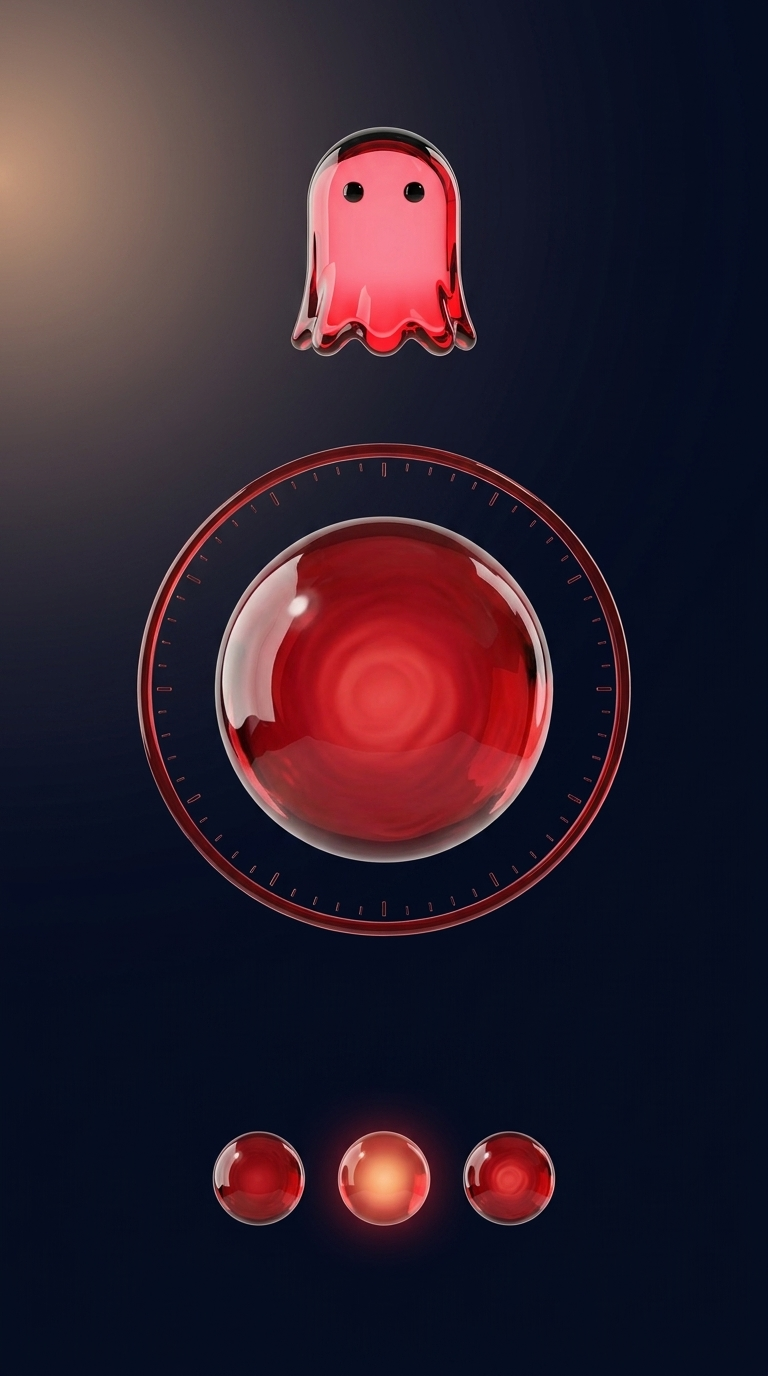
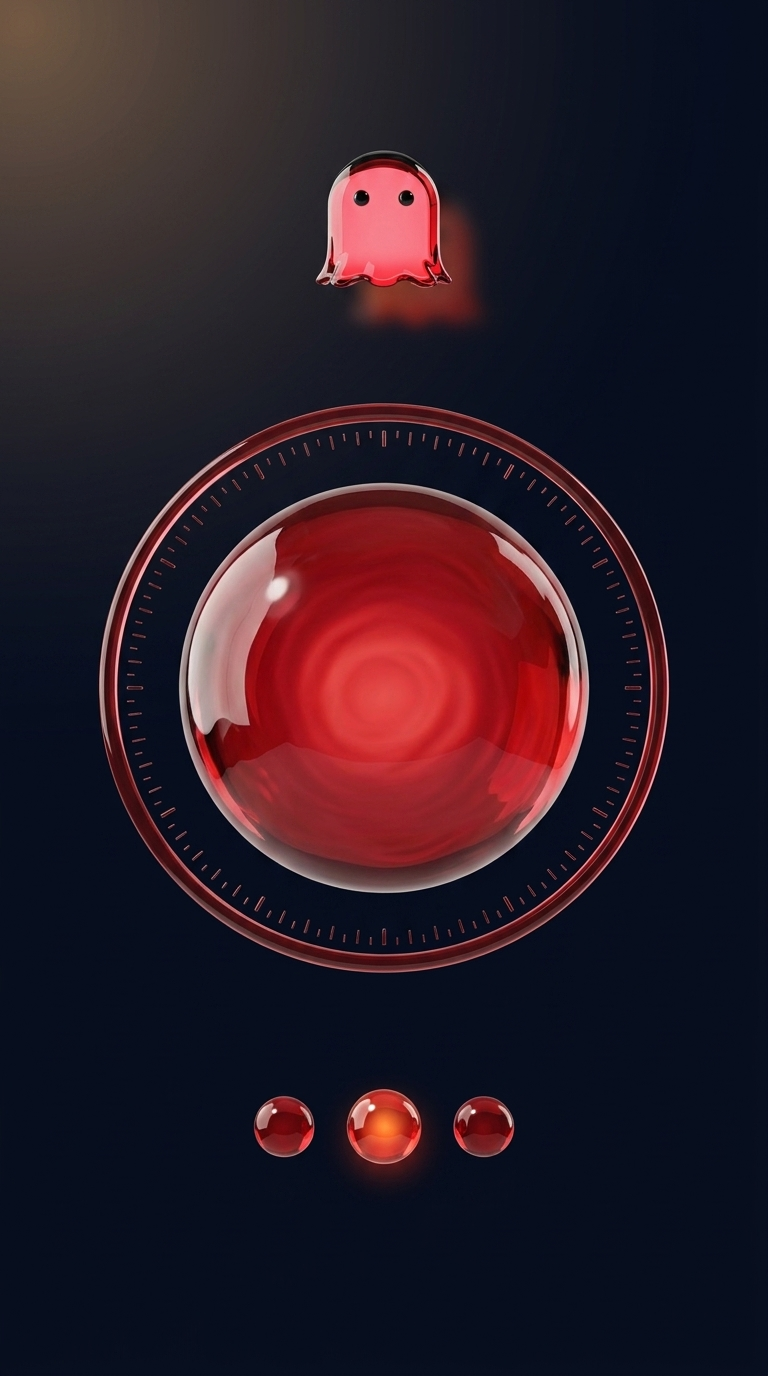
fix: 재질 대조 — 마스코트 3컷을 정본 비율로 재생성 (유호 지적 08-14)
- 🔴 결함: 첫 판이 `마스코트_렌더/본체.png`(08-13 · 비율 확정 «전»)를 참조로 써서 긴 몸통이 나갔다.
  유호님이 잡음 — 「저거보다 짧게 다시 만들지 않았었나?」
- 원인: 세션 시작 훅이 보드 줄(`170f1ff1` 마스코트 정본 통일 — 비율·밴드)을 보여줬는데
  그 줄이 선언한 파일을 직접 열지 않고 옛 렌더를 인용했다(CLAUDE.md 「현재 상태는 현재를 읽어 판정한다」 위반).
- 처방: `tools/마스코트정본.py --컷 본체`(밴드 0 = 유호 픽 대기 축은 안 건드림)로 정본을 굽고
  펠트_본체·글래시_앱화면·펠트_앱화면 3컷 재생성. 실측 1370x1266 · 세로/가로 0.924(확정 「강 0.925」).
- 회귀: `tools/재질굽기.js` 참조 상수에 «정본을 쓴다·옛 렌더를 쓰면 긴 몸통이 나온다» 주석 못박음
  + 런타임참조 폴백(디스크 앞선 산출물)과 참조 부재 시 즉시 실패 가드 추가.
- 글래시 본체는 정본의 **얼린 사본**을 판정 재료 폴더에 둔다 — 대조는 입력을 고정해야 성립하고,
  정본 폴더는 남의 트랙(`170f1ff1`)이 지금도 굽는 중이라 커밋 범위 밖이다.
- 렌더린트 전항 0(요소 32) · ⏳유호 = 재질 픽(ㄴ/ㄷ)

Session-Id: local_ba06ef23-b133-4a7e-97f6-bf00a1d417a1

diff --git a/docs/재질대조_0814.html b/docs/재질대조_0814.html
@@ -44,16 +44,18 @@
   <h1>글래시 <span class="vs">vs</span> 펠트 — 같은 명세, 재질만 바꿔 두 벌</h1>
   <p class="sub">유호님 승인(08-14 「재질당 3컷 총 6컷 두벌」)으로 구운 판정 재료.
   변수는 재질 하나 — 본체·오브는 밝은 회색 정본 규격, 앱 화면은 양쪽 다 네이비 무대·같은 배치 명세.
-  글래시 본체·녹음 오브는 확정 정본·기존 산출물 그대로(재생성 0), 신규 4컷만 API(nano-banana-pro)로 구웠다.</p>
+  글래시 본체·녹음 오브는 확정 정본·기존 산출물 그대로(재생성 0), 신규 4컷만 API(nano-banana-pro)로 구웠다.
+  <b>마스코트는 전부 정본 비율</b>(강 0.925 + 속수리) — 첫 판에서 확정 전 렌더를 참조로 썼던 3컷은 재생성했다.</p>
 </header>
 
 <div class="grid">
   <section class="row">
     <h2>① 마스코트 본체</h2>
-    <p class="note">실루엣·비율·앵글·눈 위치 계승 지시. 펠트판은 비교용 시안 — 정본은 그대로다.</p>
+    <p class="note">양쪽 다 <b>정본 비율</b>(유호 확정 「③으로 통일」 · 강 0.925 + 속수리) 기준.
+    펠트판은 그 정본을 참조로 재질만 옮긴 비교용 시안 — 정본 자체는 그대로다.</p>
     <div class="pair">
-      <figure><img src="캐릭터/마스코트_렌더/본체.png" alt="글래시 본체(확정 정본)">
-        <figcaption><b>ㄴ 글래시</b><span>확정 정본 · 재생성 0</span></figcaption></figure>
+      <figure><img src="캐릭터/재질대조_0814/글래시_본체.png" alt="글래시 본체(확정 정본)">
+        <figcaption><b>ㄴ 글래시</b><span>정본 사본 1370×1266 · 재생성 0</span></figcaption></figure>
       <figure><img src="캐릭터/재질대조_0814/펠트_본체.png" alt="펠트 본체 시안">
         <figcaption><b>ㄷ 펠트</b><span>신규 · 밑단 스티치</span></figcaption></figure>
     </div>
@@ -97,7 +99,8 @@
 
 <footer class="mono">
   자산: docs/캐릭터/재질대조_0814/ (신규 4컷 · 1024px · 시안엔 우하단 생성 표식 잔존 — 확정 시 재생성·누끼)
-  · 통로: Gemini API nano-banana-pro-preview · 4컷 102초 · 약 750원
+  · 글래시 본체 = 정본(`마스코트_정본/본체.png`)의 **얼린 사본** — 대조는 같은 입력을 고정해야 성립하므로 정본 트랙 진행과 분리했다
+  · 통로: Gemini API nano-banana-pro-preview · 신규 7컷(재생성 3 포함) · 약 1,300원
   · 재질 슬롯 구조라 픽 후 전 자산(아이콘·구슬·보상 컷)이 같은 명세로 확장된다.
 </footer>
 </body>

diff --git a/tools/재질굽기.js b/tools/재질굽기.js
@@ -12,8 +12,11 @@ const REPO = 'C:/Users/q1212/Documents/SYNK-appsscript';
 const 출력 = path.join(REPO, 'docs/캐릭터/재질대조_0814');
 const 모델 = 'nano-banana-pro-preview';
 
+/* ⚠본체 참조는 «정본»이다 — `마스코트_렌더/본체.png`(08-13)는 비율 확정 전 판이라
+ * 쓰면 긴 몸통이 나온다(08-14 실사고: 유호님이 「왜 예전 버전이냐」로 잡았다).
+ * 정본 = 유호 확정 「③으로 통일」(비율 강 0.925 + 속수리) · `tools/마스코트정본.py` 산출. */
 const 참조들 = {
-  글래시본체: path.join(REPO, 'docs/캐릭터/마스코트_렌더/본체.png'),
+  글래시본체: path.join(REPO, 'docs/캐릭터/마스코트_정본/본체.png'),
   글래시오브: path.join(REPO, 'docs/캐릭터/명품판_0814/녹음오브_대기.png'),
   펠트장면: path.join(REPO, 'docs/캐릭터/명품판_0814/펠트장면.jpg'),
 };
@@ -82,7 +85,10 @@ function 키() {
 const mime = (p) => (p.toLowerCase().endsWith('.jpg') || p.toLowerCase().endsWith('.jpeg') ? 'image/jpeg' : 'image/png');
 
 async function 한컷(k, 작업, 결과경로들) {
-  const refs = [...작업.참조, ...(작업.런타임참조 || []).map((n) => 결과경로들[n])];
+  // 런타임참조는 같은 실행의 산출물이 1순위, 없으면 디스크에 이미 구워둔 것(단독 재실행 통로).
+  const 앞선것 = (n) => 결과경로들[n] || path.join(출력, `${n}.png`);
+  const refs = [...작업.참조, ...(작업.런타임참조 || []).map(앞선것)];
+  for (const r of refs) if (!fs.existsSync(r)) throw new Error(`${작업.이름} 참조 없음 — ${r}`);
   const parts = [{ text: 작업.지시 }];
   for (const r of refs) parts.push({ inline_data: { mime_type: mime(r), data: fs.readFileSync(r).toString('base64') } });
   const t0 = Date.now();

diff --git a/docs/_ops/보드/ba06ef23.md b/docs/_ops/보드/ba06ef23.md
@@ -1,1 +1,1 @@
-| 2026-08-14 | **재질 대조 6컷 두벌 — 글래시 vs 펠트**(유호 승인 08-14 「재질당 3컷 총 6컷 두벌·지출 승인」 · 신규 4컷=API nano-banana-pro) | docs/캐릭터/재질대조_0814/* · docs/캐릭터/재질대조_0814.html(예정) (마스코트 정본 무변경 · 킷 hex 0 · 코드 0 · talk 0 · 운영 DB 0 · 배포 0 · 외부발행 0) | 🔵진행 (`local_ba06ef23`) — 변수 고정: ①②=밝은 회색(정본 규격) ③앱화면=네이비 양쪽 · ④해당없음(판정 재료층) |
+| 2026-08-14 | **재질 대조 6컷 두벌 — 글래시 vs 펠트**(유호 승인 08-14 「재질당 3컷 총 6컷 두벌·지출 승인」 · 신규 7컷=API nano-banana-pro) | docs/캐릭터/재질대조_0814/* · docs/재질대조_0814.html · tools/재질굽기.js (마스코트 정본 무변경·남의 트랙 `170f1ff1` 산출물은 커밋 범위 밖 · 킷 hex 0 · 코드 0 · talk 0 · 운영 DB 0 · 배포 0 · 외부발행 0) | ✅6컷 착지 — 🔴**유호 지적으로 3컷 재생성**(확정 전 08-13 렌더를 참조로 씀 → 정본 비율 강 0.925 로 교체 · 원인=보드 줄 보고도 그 파일을 안 열었다) · 린트 전항 0 · 운영 47 · **⏳유호=재질 픽(ㄴ/ㄷ)** · ④해당없음(판정 재료층) |
